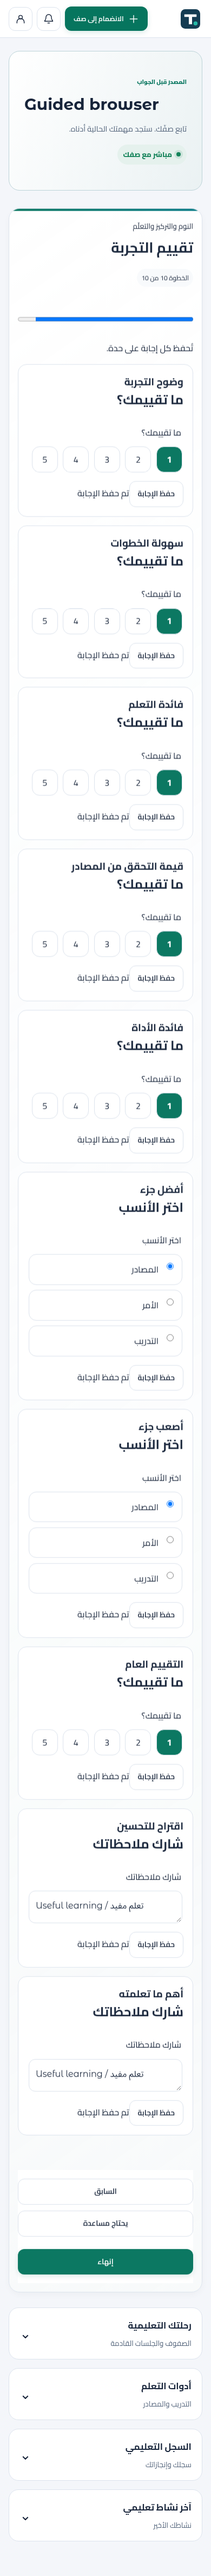
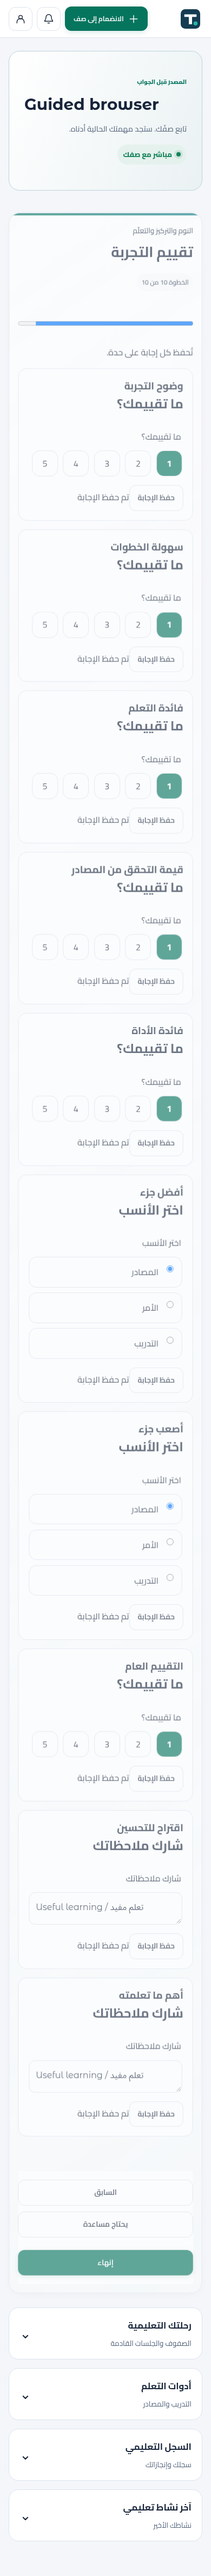
Focus the Participant dashboard on running delivery without breaking legacy context APIs

diff --git a/app/public/student.js b/app/public/student.js
@@ -20,7 +20,7 @@ let refreshing=null,refreshAgain=false;
 async function refresh(){if(refreshing){refreshAgain=true;return refreshing}refreshing=(async()=>{try{
  const primary=api(`/api/student/dashboard${state.selectedClass?`?class_id=${state.selectedClass}`:''}`);
  const extras=Promise.all([api('/api/public-settings'),api('/api/notifications'),api('/api/student/transcript'),api('/api/student/learning-tools'),api('/api/student/join-requests')].map(p=>p.catch(()=>null)));
- const dash=await primary;state.data=dash;state.user=dash.user;if(dash.active_class_id){state.selectedClass=Number(dash.active_class_id);localStorage.setItem('training_engine_student_live_class',String(state.selectedClass))}render();
+ const dash=await focusedDashboard(await primary);state.data=dash;state.user=dash.user;if(dash.active_class_id){state.selectedClass=Number(dash.active_class_id);localStorage.setItem('training_engine_student_live_class',String(state.selectedClass))}render();
  const [settings,notes,record,tools,admissions]=await extras;if(settings){state.settings=settings;state.brand=settings.brand?.name||'Training Engine ONE';applyTypography(mergeTypography(settings.typography||{},dash.active?.course?.branding?.typography||{}),'ui')}if(notes){state.notifications=notes.notifications||[];state.unread=notes.unread||0}if(record)state.transcript=record;if(tools)state.learningTools=tools;if(admissions)state.admissions=admissions.requests||[];render();
  }catch(e){if(e.status===401)return showLogin();toast(e.message,'error')}})();try{await refreshing}finally{refreshing=null;if(refreshAgain){refreshAgain=false;queueMicrotask(refresh)}}}
 function currentHero(d){
@@ -171,7 +171,7 @@ async function completeMissionNoSubmission(){
 async function submitMission(e){e.preventDefault();const live=state.data.active,classId=live.class.id,moduleId=live.state.module_id,missionId=live.state.activity_id,m=live.item,sub=m.submission||{type:'text'},f=new FormData(e.currentTarget),btn=e.currentTarget.querySelector('button');btn.disabled=true;try{if(sub.type==='file'||sub.type==='image'){const file=f.get('file');if(file?.size)await api(`/api/submissions/${classId}`,{method:'POST',body:await file.arrayBuffer(),headers:{'X-Submission-Kind':sub.type,'X-File-Name':encodeURIComponent(file.name),'X-Module-Id':moduleId,'X-Mission-Id':missionId}})}else await api(`/api/submissions/${classId}`,{method:'POST',json:{value:f.get('value')},headers:{'X-Submission-Kind':sub.type||'text','X-Module-Id':moduleId,'X-Mission-Id':missionId}});await api(`/api/missions/${classId}/progress`,{method:'POST',json:{module_id:moduleId,mission_id:missionId,status:'completed',progress:{submitted:true}}});toast(t('Mission completed.'),'success');await refresh()}catch(err){toast(err.message,'error');btn.disabled=false}}
 function renderPersonalPractice(live){return renderGuided({module:live.guided_module||{},paths:(live.item.paths?.length?live.item.paths:live.item.missions)||[],path:live.personal_path,progress:live.personal_state?.progress||{},stepIndex:live.personal_state?.step_index||0,status:live.personal_state?.status,responses:live.guided_responses||{},versionId:live.class.course_version_id,direction:live.course?.direction,help:true,title:live.item.title||'Personal practice'})}
 async function saveGuided(action,stepData,expectedRevision){const live=state.data.active,ps=live.personal_state;const saved=await api(`/api/student/runtime/${live.class.id}`,{method:'PUT',json:{module_id:live.state.module_id,path_id:live.personal_path.id,expected_revision:expectedRevision,guided_action:action,step_data:stepData}});const result=await api(`/api/student/runtime/${live.class.id}`);live.personal_state=result.state;if(action!=='save'){await refresh();document.querySelector('.guided-activity h2')?.focus()}return saved.revision}
-function bindPersonalPractice(){const live=state.data?.active;if(live?.state?.phase!=='practice')return;const root=document.querySelector('.guided-activity');if(root.dataset.bound)return;root.dataset.bound='1';let revision=live.personal_state?.revision;const write=async(action,data)=>{revision=await saveGuided(action,data,revision)};bindGuided(root,{path:live.personal_path,module:live.guided_module||{},progress:live.personal_state?.progress||{},stepIndex:live.personal_state?.step_index||0,responses:live.guided_responses||{},onChoose:choosePath,onSave:data=>write('save',data),onNavigate:write,onHelp:requestHelp,onResponseSaved:async()=>{guidedRenderedKey=null;await refresh()},onResponse:(id,answer)=>api(`/api/student/guided/${live.class.id}/response`,{method:'POST',json:{activity_id:id,answer}})})}
+function bindPersonalPractice(){const live=state.data?.active;if(live?.state?.phase!=='practice')return;const root=document.querySelector('.guided-activity');if(!root||root.dataset.bound)return;root.dataset.bound='1';let revision=live.personal_state?.revision;const write=async(action,data)=>{revision=await saveGuided(action,data,revision)};bindGuided(root,{path:live.personal_path,module:live.guided_module||{},progress:live.personal_state?.progress||{},stepIndex:live.personal_state?.step_index||0,responses:live.guided_responses||{},onChoose:choosePath,onSave:data=>write('save',data),onNavigate:write,onHelp:requestHelp,onResponseSaved:async()=>{guidedRenderedKey=null;await refresh()},onResponse:(id,answer)=>api(`/api/student/guided/${live.class.id}/response`,{method:'POST',json:{activity_id:id,answer}})})}
 async function choosePath(pathId){const live=state.data.active,choice=[...(live.item.paths||[]),...(live.item.missions||[])].find(x=>String(x.id)===String(pathId));if(!choice)return;await api(`/api/student/runtime/${live.class.id}`,{method:'PUT',json:{module_id:live.state.module_id,path_id:pathId,guided_action:'choose',activity_id:choice.steps?.[0]?.id||null,step_index:0,step_total:(choice.steps||[]).length,status:'working',progress:{}}});await refresh()}
 async function moveStep(dir){const live=state.data.active,ps=live.personal_state,path=live.personal_path,steps=path?.steps||[];let idx=Number(ps?.step_index||0);if(dir==='back')idx=Math.max(0,idx-1);else if(dir==='next')idx=Math.min(Math.max(0,steps.length-1),idx+1);const finished=dir==='finish';await api(`/api/student/runtime/${live.class.id}`,{method:'PUT',json:{module_id:live.state.module_id,path_id:path.id,activity_id:steps[idx]?.id||null,step_index:idx,step_total:steps.length,status:finished?'finished':'working',progress:{...(ps?.progress||{}),last_step:idx}}});toast(finished?t('Finished'):t('Continue'),'success');await refresh()}
 async function requestHelp(){const live=state.data.active;if(!live)return;const msg=prompt(t('Need help')+' — '+t('Description'),'')||'';await api(`/api/student/runtime/${live.class.id}/help`,{method:'POST',json:{message:msg}});toast(t('Help request sent.'),'success');await refresh()}
@@ -187,3 +187,5 @@ boot().catch(()=>showLogin());
 const studentDisclosureState=new Map();
 function studentDisclosureStart(key,title,description){const id=String(state.data.active.class.id)+':'+key;return `<details class="student-disclosure" data-student-disclosure="${esc(id)}" ${studentDisclosureState.get(id)?'open':''}><summary><span><strong>${esc(title)}</strong><small>${esc(description)}</small></span><span class="student-disclosure-arrow" aria-hidden="true">⌄</span></summary><div class="student-disclosure-body">`}
 function bindStudentDisclosures(){document.querySelectorAll('[data-student-disclosure]').forEach(el=>el.addEventListener('toggle',()=>studentDisclosureState.set(el.dataset.studentDisclosure,el.open)))}
+
+async function focusedDashboard(dash){let ids=dash.running_class_ids;if(!Array.isArray(ids)){const live=dash.active,available=live&&!['completed','cancelled'].includes(live.class?.status)&&(live.class?.status==='active'||live.delivery?.delivery_mode==='participant_paced'||live.state?.phase&&live.state.phase!=='waiting');ids=[...new Set([...(dash.active_classes||[]).filter(c=>c.status==='active').map(c=>Number(c.id)),...(available?[Number(live.class.id)]:[])])]}if(ids.length&&!ids.includes(Number(dash.active?.class?.id))){dash=await api('/api/student/dashboard?class_id='+ids[0]);ids=dash.running_class_ids||ids}if(!ids.includes(Number(dash.active?.class?.id))){dash.active=null;dash.active_class_id=null}dash.active_class_ids=ids;dash.active_classes=(dash.classes||[]).filter(c=>ids.includes(Number(c.id)));return dash}

diff --git a/tests/browser-rc1r11.py b/tests/browser-rc1r11.py
@@ -22,6 +22,7 @@ try:
   browser=p.chromium.launch(executable_path=os.environ.get('ONE_BROWSER_EXECUTABLE') or shutil.which('chromium'),headless=True,args=['--no-sandbox'])
   def context(token,locale,width):
    ctx=browser.new_context(viewport={'width':width,'height':900});ctx.add_init_script('const v='+json.dumps({'token':token,'locale':locale})+';sessionStorage.setItem("training_engine_session",v.token);sessionStorage.setItem("training_engine_session_rotated_at",String(Date.now()));localStorage.setItem("training_engine_locale",v.locale);Object.defineProperty(crypto,"randomUUID",{value:undefined,configurable:true});Object.defineProperty(navigator,"clipboard",{value:{writeText:async text=>{window.copiedText=text}}});');return ctx
+  idle=context(token,'en',390);ip=idle.new_page();ip.goto(base+'/student');ip.locator('.student-top').wait_for();expect(ip.locator('.student-class-focus')).to_have_count(0);expect(ip.locator('#your-learning')).to_be_visible();idle.close();checks.append({'dashboard_before_class_start':'PASS'})
   for locale,branch,width in [('en',0,1440),('en',1,390),('ar',0,390),('ar',1,768)]:
    fixture=json.loads(subprocess.check_output(['node','--input-type=module','-e',f'import {{guidedExample}} from "./tools/guided-examples.mjs";console.log(JSON.stringify(guidedExample("{locale}")))'],cwd=ROOT));fixture['course']['id']+=f'-{branch}-{width}'
    imp=req('/api/courses/import',at,fixture);cid=req('/api/classes',at,{'title':'Guided browser','course_version_id':imp['version_id'],'participant_ids':[sid]})['id'];req(f'/api/classes/{cid}/activate',at,{});req(f'/api/live/{cid}/practice',at,{'module_id':'m1-guided','workflow_node_id':'practice'})
@@ -44,8 +45,9 @@ try:
     elif form.locator('input[type=radio]').count():form.locator('input[type=radio]').first.check()
     else:form.locator('textarea').fill('Useful learning / تعلم مفيد')
     form.locator('button[type=submit]').click();expect(form.locator('[role=status]')).to_have_text('تم حفظ الإجابة' if locale=='ar' else 'Response saved')
-   page.reload();expect(page.locator('[data-guided-nav="finish"]')).to_be_enabled();assert page.evaluate('document.documentElement.scrollWidth<=innerWidth+1');page.screenshot(path=str(OUT/f'guided-{locale}-{branch}-{width}.png'),full_page=True);page.locator('[data-guided-nav="finish"]').click();expect(page.locator('.guided-activity')).to_contain_text('اكتمل المسار' if locale=='ar' else 'Path completed');assert not errors,errors;ctx.close();checks.append({'locale':locale,'branch':branch,'width':width,'status':'PASS'});print('GUIDED_BROWSER_GROUP_PASS',locale,branch,width,flush=True)
-   req(f'/api/classes/{cid}/lifecycle',at,{'status':'completed'})
+   page.reload();expect(page.locator('[data-guided-nav="finish"]')).to_be_enabled();assert page.evaluate('document.documentElement.scrollWidth<=innerWidth+1');page.screenshot(path=str(OUT/f'guided-{locale}-{branch}-{width}.png'),full_page=True);page.locator('[data-guided-nav="finish"]').click();expect(page.locator('.guided-activity')).to_contain_text('اكتمل المسار' if locale=='ar' else 'Path completed');assert not errors,errors;req(f'/api/classes/{cid}/lifecycle',at,{'status':'completed'});page.reload();page.locator('.student-top').wait_for();expect(page.locator('.student-class-focus')).to_have_count(0);expect(page.locator('details.student-disclosure')).to_have_count(0);expect(page.locator('#your-learning')).to_be_visible();ctx.close();checks.append({'locale':locale,'branch':branch,'width':width,'status':'PASS'});print('GUIDED_BROWSER_GROUP_PASS',locale,branch,width,flush=True)
+  # Front-of-Room practice stays read-only and binds safely without guided controls.
+  fc=req('/api/classes',at,{'course_version_id':imp['version_id'],'title':'Front room read-only','participant_ids':[sid]})['id'];req(f'/api/classes/{fc}/activate',at,{});req(f'/api/live/{fc}/practice',at,{'module_id':'m1-guided','workflow_node_id':'practice'});req(f'/api/live/{fc}/delivery',at,{'delivery_mode':'front_of_room'},'PATCH');ctx=context(token,'en',390);page=ctx.new_page();page.goto(base+f'/student?class_id={fc}');expect(page.locator('.live-panel.waiting')).to_be_visible();expect(page.locator('[data-guided-path]')).to_have_count(0);expect(page.locator('.toast.error')).to_have_count(0);ctx.close();req(f'/api/classes/{fc}/lifecycle',at,{'status':'completed'});checks.append({'front_of_room_read_only_practice':'PASS'})
   # Preserve legacy mission-only practice, including file-completion declarations and missions without steps.
   legacy={'format':'training-engine-course','schema_version':'2.0','course':{'id':'legacy-practice-browser','version':'1.0','title':'Legacy practice','language':'en','direction':'ltr','modules':[{'id':'legacy-file-module','title':'Legacy file practice','activities':[],'paths':[],'missions':[{'id':'legacy-file-mission','title':'Legacy mission','steps':[{'id':'legacy-file-step','title':'Legacy file instructions','body_md':'Follow the established submission instructions.','completion':{'type':'file'}},{'id':'constructor','title':'Legacy finish','completion':{'type':'none'}}],'submission':{'type':'file'}}]},{'id':'legacy-empty-module','title':'Legacy simple practice','activities':[],'paths':[],'missions':[{'id':'legacy-empty-mission','title':'Simple legacy task','goal':'Read the instructions and finish.','submission':{'type':'none'}}]}]}}
   li=req('/api/courses/import',at,legacy);lc=req('/api/classes',at,{'course_version_id':li['version_id'],'title':'Legacy practice compatibility','participant_ids':[sid]})['id'];req(f'/api/classes/{lc}/activate',at,{})

diff --git a/docs/CODEX_EXEC_PLAN.md b/docs/CODEX_EXEC_PLAN.md
@@ -12,7 +12,7 @@ Data strategy: reuse participant_runtime_state progress JSON and canonical activ
 
 Risks: broad attachment contains advanced optional authoring/analytics requirements; inventory and final gap matrix must explicitly distinguish retained, repaired, new and deferred features. No false pass, release remains in development until required gates pass, never FINAL without owner acceptance. Baseline behavior exposes unchecked runtime progress writes and simplistic step renderer. Deletion must not orphan reports/history. Existing test-generated tracked reports must be preserved externally and originals restored after tests.
 
-Progress/decision log: RC1R10 located remotely and exact sealed SHA-256 verified. Working branch feature/guided-experience-rc1r11. Unchanged 59-command baseline passed. Implemented the incremental guided renderer/preview, prompt/copy/resume, 12 canonical embedded question types, grouped evaluations, evidence/condition/context/template contracts, scoped reports, recoverable deletion and the owner's added focused running-class dashboard. All 62 source Node commands pass; new tests cover 39 contracts and 111 API assertions. Seven browser programs pass (12 repair visits, 107 workspace checks, 12 upgrade gates, 640 font layouts, 52 RC1R9 visits, seven RC1R10 groups, ten RC1R11 groups). 34 PDF reader checks, 141 syntax files and canonical/101-file kit drift checks pass. Normal production startup and five role pages pass without QA account flags. Test-generated tracked reports preserved as external evidence and restored. No new SQLite migration. Advanced master-prompt requirements remain explicitly incomplete in RC1R11_GAP_MATRIX.md; status is DEVELOPMENT_BUILD_NOT_FINAL, never a claim to the full closure or FINAL. The dashboard uses native closed disclosures and opens a pending admission outcome only after an explicit join action. Repeated archive deletion preserves the original completed-class status. No agents/worktree/reset/push. Final review found missing Builder export. Added authorized, validation-gated course ZIP export with verified assets; 34 export/API assertions and a genuine second-server import/runtime round trip pass, including a real browser download. First sealed archive is withheld because it predates this addition, despite passing its old checks. The export build passed 62 Node checks and nine guided browser groups. Arabic translations for new progress/export error states were then completed and the i18n gate passed. Final compatibility review replaced secure-context-only randomUUID with LAN-compatible 128-bit getRandomValues IDs, bounded guided scales and rejected invalid scale/reaction/checklist declarations. Mission-only practice, empty legacy missions and older file/image completion navigation are preserved. The new browser program passes ten groups, including randomUUID unavailable and legacy mission fallback; 39 focused contracts pass. Earlier private archives remain withheld. Distribution seal/fresh-extraction/retest and companion artifacts are pending; no more implementation changes are planned.
+Progress/decision log: RC1R10 located remotely and exact sealed SHA-256 verified. Working branch feature/guided-experience-rc1r11. Unchanged 59-command baseline passed. Implemented the incremental guided renderer/preview, prompt/copy/resume, 12 canonical embedded question types, grouped evaluations, evidence/condition/context/template contracts, scoped reports, recoverable deletion and the owner's added focused running-class dashboard. All 62 source Node commands pass; new tests cover 39 contracts and 126 API assertions. Seven browser programs pass (12 repair visits, 107 workspace checks, 12 upgrade gates, 640 font layouts, 52 RC1R9 visits, seven RC1R10 groups, twelve RC1R11 groups). 34 PDF reader checks, 141 syntax files and canonical/101-file kit drift checks pass. Normal production startup and five role pages pass without QA account flags. Test-generated tracked reports preserved as external evidence and restored. No new SQLite migration. Advanced master-prompt requirements remain explicitly incomplete in RC1R11_GAP_MATRIX.md; status is DEVELOPMENT_BUILD_NOT_FINAL, never a claim to the full closure or FINAL. The dashboard uses native closed disclosures and opens a pending admission outcome only after an explicit join action. Repeated archive deletion preserves the original completed-class status. No agents/worktree/reset/push. Final review found missing Builder export. Added authorized, validation-gated course ZIP export with verified assets; 34 export/API assertions and a genuine second-server import/runtime round trip pass, including a real browser download. First sealed archive is withheld because it predates this addition, despite passing its old checks. The export build passed 62 Node checks and nine guided browser groups. Arabic translations for new progress/export error states were then completed and the i18n gate passed. Final compatibility review replaced secure-context-only randomUUID with LAN-compatible 128-bit getRandomValues IDs, bounded guided scales and rejected invalid scale/reaction/checklist declarations. Mission-only practice, empty legacy missions and older file/image completion navigation are preserved. The new browser program passes ten groups, including randomUUID unavailable and legacy mission fallback; 39 focused contracts pass. Lifecycle tests cover the normal dashboard before start, focused delivery, return after completion and read-only Front-of-Room practice. New running-class metadata preserves legacy active-context API fields, and server responses honor the paused mode. The expanded API test passes 126 assertions; its earlier 119-assertion full-run variant passed all 62 commands. Earlier private archives remain withheld. Distribution seal/fresh-extraction/retest and companion artifacts are pending; no more implementation changes are planned.
 
 ---
 

diff --git a/docs/RC1R11_VALIDATION_REPORT.md b/docs/RC1R11_VALIDATION_REPORT.md
@@ -7,7 +7,7 @@ Status: DEVELOPMENT_BUILD_NOT_FINAL. The supported incremental changes pass the 
 | Unchanged RC1R10 baseline | PASS: complete 59-command Node runner |
 | RC1R11 full Node runner | PASS: 62 commands, including populated legacy migration, backup/restore, restart, roles, 36 activities / 68 result-view cases and 20-participant rehearsal |
 | New declarative contracts | PASS: 39 positive/negative cases, including malformed content/references, missing context/templates and prototype-key safety |
-| New guided API | PASS: 111 assertions, all 12 embedded types, canonical separate storage, retries, evidence, branch locking, revision conflict, privacy, scoped reports, deletion denial/history/restore/idempotence |
+| New guided API | PASS: 126 assertions, all 12 embedded types, canonical separate storage, retries, evidence, branch locking, revision conflict, privacy, scoped reports, deletion denial/history/restore/idempotence |
 | Course package export | PASS: 34 assertions, invalid Draft blocked, checksummed asset/missing/tampered cases, private export permission checks, immutable published source, actual Draft → publish → ZIP export → second-server import → Participant path |
 | Existing repair browser program | PASS: 12 role/locale visits, offline fonts, actual submission/export/charts/keyboard/Projector themes |
 | Workspace browser program | PASS: 107 screen/view checks including readable controls, actual writes, RTL punctuation, calendar and roles |
@@ -15,7 +15,7 @@ Status: DEVELOPMENT_BUILD_NOT_FINAL. The supported incremental changes pass the 
 | Font browser program | PASS: 640 layout cases across eight surfaces, EN/AR and representative widths |
 | RC1R9 browser program | PASS: 52 role/locale/theme/layout visits |
 | RC1R10 browser program | PASS: seven workflow groups |
-| RC1R11 browser program | PASS: ten groups; A/B routes, EN/AR, 390/768/1440, long prompt scrolling, exact-text copy, edit/reset/resume, ten separate evaluation responses, focus dashboard/disclosures/keyboard, exact shared preview, real visual step/Draft save with randomUUID unavailable, real ZIP download, legacy mission/file/empty-step compatibility, scoped report CSV and confirmed deletion |
+| RC1R11 browser program | PASS: twelve groups; A/B routes, EN/AR, 390/768/1440, long prompt scrolling, exact-text copy, edit/reset/resume, ten separate evaluation responses, dashboard before/during/after delivery, disclosures/keyboard, Front-of-Room read-only practice, exact shared preview, real visual step/Draft save with randomUUID unavailable, real ZIP download, legacy mission/file/empty-step compatibility, scoped report CSV and confirmed deletion |
 | PDF readers | PASS: 34 generated documents checked independently with PDFium, MuPDF and pdfinfo |
 | Static syntax | PASS: 141 app/tool/test files (unchanged vendored bundle excluded) |
 | Canonical/generated contracts and portable kit | PASS: contract drift check; 101 generated kit files and six importable samples |

diff --git a/course-authoring-handoff/GUIDED_EXPERIENCE.md b/course-authoring-handoff/GUIDED_EXPERIENCE.md
@@ -6,7 +6,7 @@ Status: DEVELOPMENT_BUILD_NOT_FINAL. This is an incremental build; the entire ma
 
 The same `guided.js` renderer and binder power Participant practice and Builder's Participant preview. `renderer.js` remains the single content-block renderer. Canonical `step.content.blocks` now renders; legacy `step.blocks`, body, prompt and resources remain supported. Shared prompt cards copy only the current prompt text, show localized live feedback, wrap/select/scroll long text, and offer editable prompts with reset and saved progress. Resources pass through the existing safe URL/local-asset renderer. No course-specific tool logic, HTML, CSS or executable expressions are accepted.
 
-Running classes take priority on the Participant dashboard: hero, then the current class task. Learning, tools, learning record and recent activity appear in four native closed disclosures underneath. The arrows work with keyboard/touch in either direction; open state survives background updates within that page/class. A reload starts them closed. Other dashboard data still refreshes. The live guided task and input selection survive unrelated background updates. Outside a running class, existing sections remain directly available.
+Running classes take priority on the Participant dashboard: hero, then the current class task. Learning, tools, learning record and recent activity appear in four native closed disclosures underneath. The arrows work with keyboard/touch in either direction; open state survives background updates within that page/class. A reload starts them closed. Before delivery and after it ends (when no other class is running), the normal dashboard sections stay directly available. An additive running_class_ids field selects actual delivery contexts while preserving the legacy API active-context fields; stale last-selected completed classes do not keep the new UI in focus mode. Front-of-Room practice stays read-only, and the server rejects personal response writes in that mode. Other dashboard data still refreshes. The live guided task and input selection survive unrelated background updates. Outside a running class, existing sections remain directly available.
 
 Builder preview runs a temporary selected path, evidence, edits and responses without writes to production progress. Restart preview tests the other branch. Desktop/tablet/phone widths and explicit course LTR/RTL are independent of UI language. The Tools menu now exports validated course ZIPs after saving the draft. Export includes verified local assets and a SHA-256 manifest, is limited to authorized course editors/Admins, and fails closed for incomplete structure/workflow/assets or a changed asset checksum. The exported version is explicit; published source content is never modified. A test imports the actual exported ZIP into a second isolated server and runs its Participant path.
 

diff --git a/course-creator-kit/GUIDED_EXPERIENCE.md b/course-creator-kit/GUIDED_EXPERIENCE.md
@@ -6,7 +6,7 @@ Status: DEVELOPMENT_BUILD_NOT_FINAL. This is an incremental build; the entire ma
 
 The same `guided.js` renderer and binder power Participant practice and Builder's Participant preview. `renderer.js` remains the single content-block renderer. Canonical `step.content.blocks` now renders; legacy `step.blocks`, body, prompt and resources remain supported. Shared prompt cards copy only the current prompt text, show localized live feedback, wrap/select/scroll long text, and offer editable prompts with reset and saved progress. Resources pass through the existing safe URL/local-asset renderer. No course-specific tool logic, HTML, CSS or executable expressions are accepted.
 
-Running classes take priority on the Participant dashboard: hero, then the current class task. Learning, tools, learning record and recent activity appear in four native closed disclosures underneath. The arrows work with keyboard/touch in either direction; open state survives background updates within that page/class. A reload starts them closed. Other dashboard data still refreshes. The live guided task and input selection survive unrelated background updates. Outside a running class, existing sections remain directly available.
+Running classes take priority on the Participant dashboard: hero, then the current class task. Learning, tools, learning record and recent activity appear in four native closed disclosures underneath. The arrows work with keyboard/touch in either direction; open state survives background updates within that page/class. A reload starts them closed. Before delivery and after it ends (when no other class is running), the normal dashboard sections stay directly available. An additive running_class_ids field selects actual delivery contexts while preserving the legacy API active-context fields; stale last-selected completed classes do not keep the new UI in focus mode. Front-of-Room practice stays read-only, and the server rejects personal response writes in that mode. Other dashboard data still refreshes. The live guided task and input selection survive unrelated background updates. Outside a running class, existing sections remain directly available.
 
 Builder preview runs a temporary selected path, evidence, edits and responses without writes to production progress. Restart preview tests the other branch. Desktop/tablet/phone widths and explicit course LTR/RTL are independent of UI language. The Tools menu now exports validated course ZIPs after saving the draft. Export includes verified local assets and a SHA-256 manifest, is limited to authorized course editors/Admins, and fails closed for incomplete structure/workflow/assets or a changed asset checksum. The exported version is explicit; published source content is never modified. A test imports the actual exported ZIP into a second isolated server and runs its Participant path.
 

diff --git a/docs/RC1R11_GUIDED_EXPERIENCE.md b/docs/RC1R11_GUIDED_EXPERIENCE.md
@@ -6,7 +6,7 @@ Status: DEVELOPMENT_BUILD_NOT_FINAL. This is an incremental build; the entire ma
 
 The same `guided.js` renderer and binder power Participant practice and Builder's Participant preview. `renderer.js` remains the single content-block renderer. Canonical `step.content.blocks` now renders; legacy `step.blocks`, body, prompt and resources remain supported. Shared prompt cards copy only the current prompt text, show localized live feedback, wrap/select/scroll long text, and offer editable prompts with reset and saved progress. Resources pass through the existing safe URL/local-asset renderer. No course-specific tool logic, HTML, CSS or executable expressions are accepted.
 
-Running classes take priority on the Participant dashboard: hero, then the current class task. Learning, tools, learning record and recent activity appear in four native closed disclosures underneath. The arrows work with keyboard/touch in either direction; open state survives background updates within that page/class. A reload starts them closed. Other dashboard data still refreshes. The live guided task and input selection survive unrelated background updates. Outside a running class, existing sections remain directly available.
+Running classes take priority on the Participant dashboard: hero, then the current class task. Learning, tools, learning record and recent activity appear in four native closed disclosures underneath. The arrows work with keyboard/touch in either direction; open state survives background updates within that page/class. A reload starts them closed. Before delivery and after it ends (when no other class is running), the normal dashboard sections stay directly available. An additive running_class_ids field selects actual delivery contexts while preserving the legacy API active-context fields; stale last-selected completed classes do not keep the new UI in focus mode. Front-of-Room practice stays read-only, and the server rejects personal response writes in that mode. Other dashboard data still refreshes. The live guided task and input selection survive unrelated background updates. Outside a running class, existing sections remain directly available.
 
 Builder preview runs a temporary selected path, evidence, edits and responses without writes to production progress. Restart preview tests the other branch. Desktop/tablet/phone widths and explicit course LTR/RTL are independent of UI language. The Tools menu now exports validated course ZIPs after saving the draft. Export includes verified local assets and a SHA-256 manifest, is limited to authorized course editors/Admins, and fails closed for incomplete structure/workflow/assets or a changed asset checksum. The exported version is explicit; published source content is never modified. A test imports the actual exported ZIP into a second isolated server and runs its Participant path.
 

diff --git a/docs/course-creator/GUIDED_EXPERIENCE.md b/docs/course-creator/GUIDED_EXPERIENCE.md
@@ -6,7 +6,7 @@ Status: DEVELOPMENT_BUILD_NOT_FINAL. This is an incremental build; the entire ma
 
 The same `guided.js` renderer and binder power Participant practice and Builder's Participant preview. `renderer.js` remains the single content-block renderer. Canonical `step.content.blocks` now renders; legacy `step.blocks`, body, prompt and resources remain supported. Shared prompt cards copy only the current prompt text, show localized live feedback, wrap/select/scroll long text, and offer editable prompts with reset and saved progress. Resources pass through the existing safe URL/local-asset renderer. No course-specific tool logic, HTML, CSS or executable expressions are accepted.
 
-Running classes take priority on the Participant dashboard: hero, then the current class task. Learning, tools, learning record and recent activity appear in four native closed disclosures underneath. The arrows work with keyboard/touch in either direction; open state survives background updates within that page/class. A reload starts them closed. Other dashboard data still refreshes. The live guided task and input selection survive unrelated background updates. Outside a running class, existing sections remain directly available.
+Running classes take priority on the Participant dashboard: hero, then the current class task. Learning, tools, learning record and recent activity appear in four native closed disclosures underneath. The arrows work with keyboard/touch in either direction; open state survives background updates within that page/class. A reload starts them closed. Before delivery and after it ends (when no other class is running), the normal dashboard sections stay directly available. An additive running_class_ids field selects actual delivery contexts while preserving the legacy API active-context fields; stale last-selected completed classes do not keep the new UI in focus mode. Front-of-Room practice stays read-only, and the server rejects personal response writes in that mode. Other dashboard data still refreshes. The live guided task and input selection survive unrelated background updates. Outside a running class, existing sections remain directly available.
 
 Builder preview runs a temporary selected path, evidence, edits and responses without writes to production progress. Restart preview tests the other branch. Desktop/tablet/phone widths and explicit course LTR/RTL are independent of UI language. The Tools menu now exports validated course ZIPs after saving the draft. Export includes verified local assets and a SHA-256 manifest, is limited to authorized course editors/Admins, and fails closed for incomplete structure/workflow/assets or a changed asset checksum. The exported version is explicit; published source content is never modified. A test imports the actual exported ZIP into a second isolated server and runs its Participant path.
 

diff --git a/docs/RC1R11_CHANGELOG.md b/docs/RC1R11_CHANGELOG.md
@@ -10,6 +10,7 @@ Incremental development build derived from the verified RC1R10 source and sealed
 - Add validated course-package export in Builder Tools, checksummed asset integrity checks, and a verified second-server import/runtime round trip.
 - Add scoped guided evaluation/path/timing reports and CSV export.
 - Focus running-class Participant dashboards on the hero and current task. Put learning, tools, records and recent activity into four native arrow disclosures, preserving state during updates. An explicit admission request opens its outcome in learning.
+- Preserve legacy active-context API fields while exposing running-class metadata for the focused UI. Return to the normal dashboard after delivery ends; enforce read-only personal responses in Front-of-Room mode.
 - Expose confirmed, recoverable course/class deletion; preserve historical deliveries and make class deletion retries retain the original restoration status.
 - Update schemas/capability contract, portable Creator kit, handoff, M1 EN/AR fixtures, all-activity/block playground, focused tests and release documentation.
 

diff --git a/docs/verification/rc1r11/CURRENT_ACTIVITY_CERTIFICATION_MATRIX.md b/docs/verification/rc1r11/CURRENT_ACTIVITY_CERTIFICATION_MATRIX.md
@@ -1,6 +1,6 @@
 # Training Engine ONE — Full Activity Certification Matrix
 
-Generated: 2026-10-20T07:08:44.825Z
+Generated: 2026-10-20T07:40:50.920Z
 
 Status: **PASS on all defined certification gates**
 
